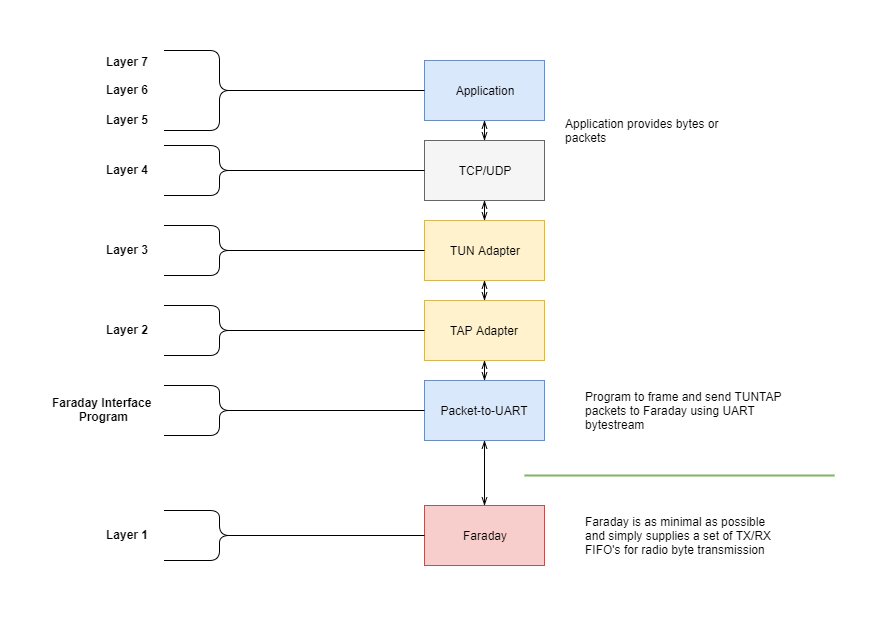
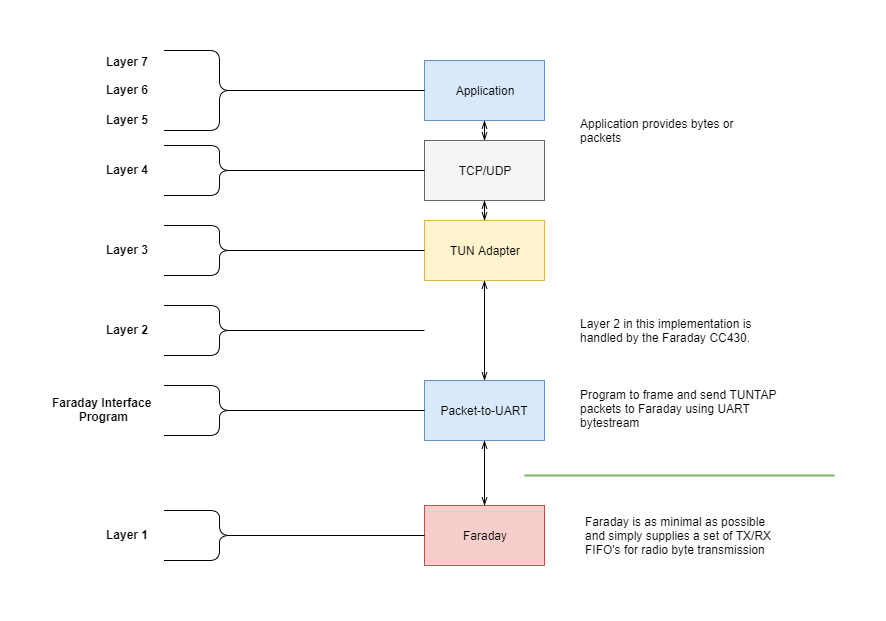
Adding resources markdown file. Updated layer image.

Changed region(s): [[0.4571, 0.4589, 0.8533, 0.5813], [0.64, 0.6119, 0.8837, 0.7037], [0.64, 0.1836, 0.8228, 0.2448]]

diff --git a/Resources.md b/Resources.md
@@ -1,0 +1,10 @@
+#Resources
+
+This is a working file to hold resources useful to the project. Mostly links and descriptions.
+
+
+## Editors
+
+* Diagrams
+  * https://www.draw.io/
+  
